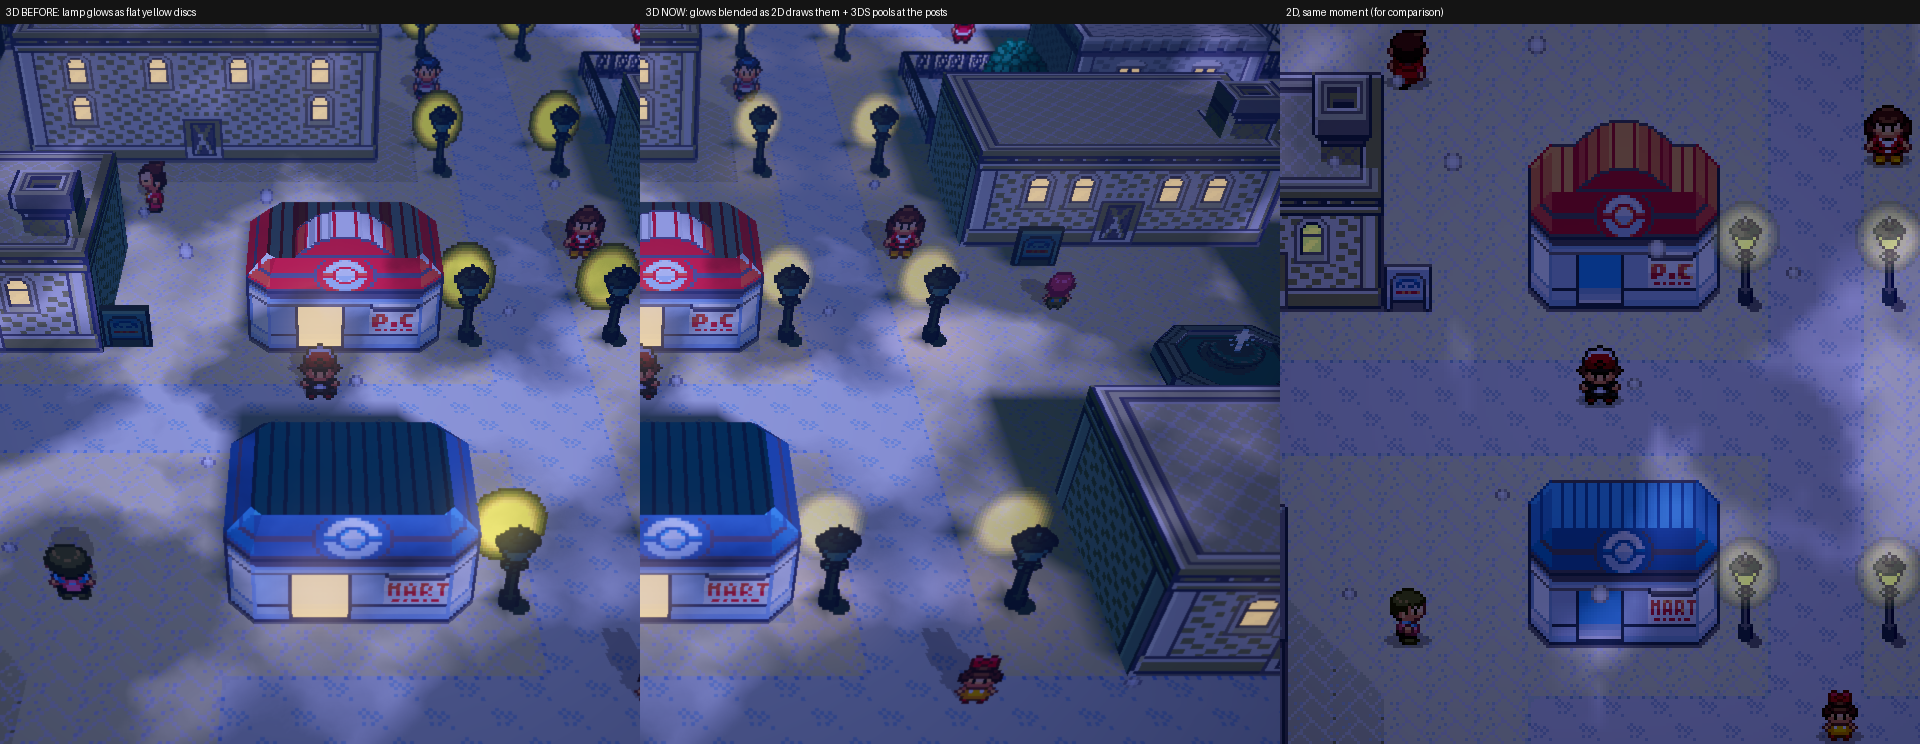
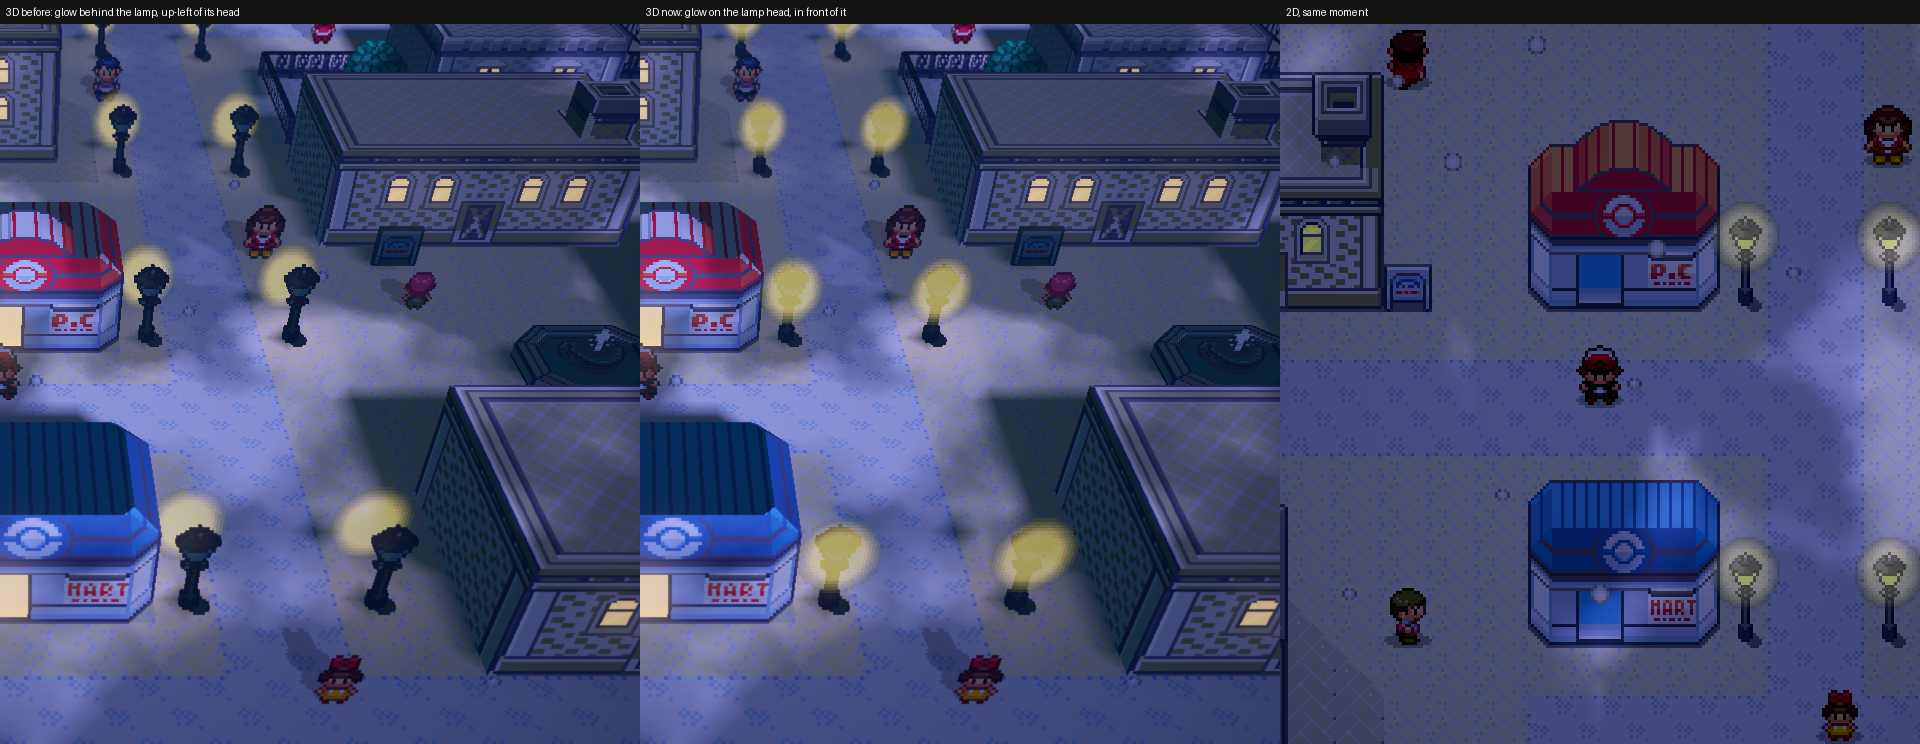
POL-26b lamps: glow sits on the lantern head, in front of it (was behind the lamp)
Treston, 2026-11-15: "The lights look like it's behind the lamp in 3d".

Placed from the screen, the glow card stood about half a tile north of the
lamp and up-left of its head; the 3D lantern model hid it.
- voxel_sign.c VoxelSign_LanternGlass: the middle of the lantern's lit glass
  exactly where VoxelSign_EmitNight (Emerald 3DS) puts it - head rows 6..10,
  columns trimmed by 2, the lantern's front face.
- voxel_entities.c: a lamp ball's glow is centred there, just in front of the
  glass. No 3DS lantern at that cell: screen placement moved one tile towards
  the camera along the line of sight (keeps its place on screen).
Not handled: eased rows / raised map bases (z stretch); Rustboro is flat.

Tested on WallysJourney.exe under Wine, Rustboro 10 PM, 3D: glow centre within
a few pixels of the lantern head, drawn over it. 2D unaffected (3D-only code).
Picture: docs/polish_reports/POL-26b_lamps.png (updated).

Claude-Session: https://claude.ai/code/session_019khs4XZ7wjpndpyxbzK4Je

diff --git a/src/platform/voxel3d/voxel_entities.c b/src/platform/voxel3d/voxel_entities.c
@@ -2038,27 +2038,62 @@ unsigned VoxelEntities_Emit(VoxelBuilder *builder, uint16_t *atlas, const VoxelC
         base = sprite->y + sprite->centerToCornerVecY + h;
         if (sprite->callback == UpdateLightSprite && sGlowBuilder != NULL)
         {
-            /* POL-26b: placed as a card on its own is (below), into the glow builder; a lamp ball's pool on
-             * the ground of its tile (sLightXPos / sLightYPos, map coordinates). */
+            /* POL-26b: placed as a card on its own is (below), into the glow builder. A lamp ball's pool goes on
+             * the ground of the lamp's post (sLightXPos / sLightYPos, map coordinates: the light object is on
+             * the lamp's head tile, the post one tile south; the 3DS centres its pool on the post). */
+            bool ball = sprite->data[5] == LIGHT_TYPE_BALL && VoxelWorld_InstanceCount() > 0;
+            float px = 0.0f, pz = 0.0f;
+
             reference = gPlayerAvatar.objectEventId < OBJECT_EVENTS_COUNT
                       ? &objects[gPlayerAvatar.objectEventId] : NULL;
             if (reference == NULL || !reference->drawn)
                 continue;
+            if (ball)
+            {
+                px = (float)(sprite->data[6] - MAP_OFFSET + VoxelWorld_Instance(0)->originX) + 0.5f;
+                pz = (float)(sprite->data[7] - MAP_OFFSET + VoxelWorld_Instance(0)->originY) + 1.5f;
+            }
             {
                 float cx = reference->worldX + 0.5f + (x - reference->screenX) / VOXEL_PIXELS_PER_TILE;
                 float cz = reference->worldZ + 0.5f + (base - reference->base) / VOXEL_PIXELS_PER_TILE;
+                float rise = -sprite->y2 * pixel;
 
                 if (fabsf(cx - camera->targetX) > VOXEL_CARD_RANGE || fabsf(cz - camera->targetZ) > VOXEL_CARD_RANGE)
                     continue;
-                EmitBillboard(sGlowBuilder, &sSlots[effect->slot], effect->slot, cx, cz, 0.0f, 0.0f,
-                              -sprite->y2 * pixel, reference->deck, rightX, rightZ, stretch,
-                              1.0f, SpriteScale(sprite));
+                float gx, gy, gz;
+                const VoxelMapInstance *lampInst = ball ? VoxelWorld_GetInstanceAt((int)floorf(px), (int)floorf(pz)) : NULL;
+
+                /* Treston, 2026-11-15: "The lights look like it's behind the lamp in 3d". Placed from the screen,
+                 * the glow's card stood about half a tile north of the lamp and up-left of its head, the lamp's
+                 * 3D model in front of it. The lamp is Emerald 3DS's lantern (sign data): the glow is centred
+                 * where the 3DS lights its glass (VoxelSign_LanternGlass) and stands just in front of it. */
+                if (ball && VoxelSign_LanternGlass(lampInst, (int)floorf(px), (int)floorf(pz), &gx, &gy, &gz))
+                {
+                    /* the card shows the slot's top VisibleRows rows, its bottom at the lift; the glow's middle
+                     * is the sprite's middle row, (rows - height / 2) pixels above that bottom */
+                    float above = (VisibleRows(&sSlots[effect->slot]) - sSlots[effect->slot].height * 0.5f)
+                                * pixel * SpriteScale(sprite);
+                    float front = gz + 0.05f;
+
+                    EmitBillboard(sGlowBuilder, &sSlots[effect->slot], effect->slot, gx, front, 0.0f, 0.0f,
+                                  gy - VoxelRelief_LiftAt(gx, front) - above, 0.0f, rightX, rightZ, stretch,
+                                  1.0f, SpriteScale(sprite));
+                }
+                else
+                {
+                    /* No 3DS lantern there: placed from the screen, moved a tile straight towards the camera
+                     * (along the line of sight a card keeps its place on the screen, a few % bigger). */
+                    float cy = VoxelRelief_LiftAt(cx, cz) + rise + sSlots[effect->slot].height * pixel * 0.5f;
+                    float dx = camera->x - cx, dy = camera->y - cy, dz = camera->z - cz;
+                    float len = sqrtf(dx * dx + dy * dy + dz * dz);
+                    float d = len > 2.0f ? 1.0f / len : 0.0f;
+
+                    EmitBillboard(sGlowBuilder, &sSlots[effect->slot], effect->slot, cx, cz, dx * d, dz * d,
+                                  rise + dy * d, reference->deck, rightX, rightZ, stretch, 1.0f, SpriteScale(sprite));
+                }
             }
-            if (sPoolBuilder != NULL && sprite->data[5] == LIGHT_TYPE_BALL && VoxelWorld_InstanceCount() > 0)
+            if (ball && sPoolBuilder != NULL)
             {
-                float px = (float)(sprite->data[6] - MAP_OFFSET + VoxelWorld_Instance(0)->originX) + 0.5f;
-                /* the light object is on the lamp's head tile; the 3DS centres the pool on the post (one south) */
-                float pz = (float)(sprite->data[7] - MAP_OFFSET + VoxelWorld_Instance(0)->originY) + 1.5f;
                 const VoxelMapInstance *inst = VoxelWorld_GetInstanceAt((int)floorf(px), (int)floorf(pz));
 
                 VoxelSign_LampPool(sPoolBuilder, inst, px, pz);

diff --git a/src/platform/voxel3d/voxel_sign.c b/src/platform/voxel3d/voxel_sign.c
@@ -201,6 +201,44 @@ static void LampGround(VoxelBuilder *builder, const VoxelMapInstance *inst,
         }
 }
 
+/*
+ * POL-26b (PC): the middle of the lit glass of the lantern standing at world cell (cellX, cellZ), where
+ * VoxelSign_EmitNight puts it (head rows 6..10, columns trimmed by 2, on the lantern's front face): x, height over
+ * the ground (lift added), z. False: no 3DS lantern there.
+ */
+bool VoxelSign_LanternGlass(const VoxelMapInstance *inst, int cellX, int cellZ, float *x, float *y, float *z)
+{
+    if (inst == NULL || inst->indoor || !LoadMasks())
+        return false;
+    for (unsigned index = 0; index < sCount; ++index)
+    {
+        const SignRecord *record = &sIndex[index];
+        int xpos = inst->originX + record->x, zpos = inst->originY + record->y;
+        if (record->layout != inst->layoutId || xpos != cellX || zpos != cellZ || !VoxelSign_IsLantern(record->head)
+            || VoxelRegions_RoleAt(inst->layoutId, record->x, record->y) != VOXEL_ROLE_SIGNPOST)
+            continue;
+        int last = 16, left = 16, right = -1;
+        for (unsigned row = 0; row < 16; ++row)
+            if (record->rows[row] != 0)
+                last = (int)row + 16;
+        for (unsigned row = 6; row < 11; ++row)
+            for (int col = 2; col < 14; ++col)
+                if ((record->head[row] & (1u << col)) != 0)
+                {
+                    left = col < left ? col : left;
+                    right = col > right ? col : right;
+                }
+        if (left > right)
+            return false;
+        float back = zpos - 1 + (last / 8) * 0.5f + 0.25f - VOXEL_SIGN_PINNED_DEPTH / 32.0f;
+        *x = xpos + (left + right + 1) / 32.0f;
+        *y = VoxelRelief_Base(inst) + VoxelRelief_CellLift(inst, xpos, zpos) + (last - 8) / 16.0f + 1.0f / 32.0f;
+        *z = back + VOXEL_SIGN_PINNED_DEPTH / 16.0f;
+        return true;
+    }
+    return false;
+}
+
 /* POL-26b (PC): the 3DS's pool of light around a lamp of our own maps (the game's light objects). */
 void VoxelSign_LampPool(VoxelBuilder *ground, const VoxelMapInstance *inst, float centerX, float centerZ)
 {

diff --git a/src/platform/voxel3d/voxel_sign.h b/src/platform/voxel3d/voxel_sign.h
@@ -73,6 +73,7 @@ void VoxelSign_Shutdown(void);
 bool VoxelSign_IsLantern(const uint16_t head[16]);
 /* POL-26b (PC): the pool of light of a lamp at (centerX, centerZ), world tiles; texture coordinates 0..1 over
  * the pool's disc (radius VOXEL_LAMP_POOL_RADIUS). */
+bool VoxelSign_LanternGlass(const VoxelMapInstance *inst, int cellX, int cellZ, float *x, float *y, float *z);
 void VoxelSign_LampPool(VoxelBuilder *ground, const VoxelMapInstance *inst, float centerX, float centerZ);
 void VoxelSign_EmitNight(VoxelBuilder *glass, VoxelBuilder *ground,
                        const VoxelMapInstance *inst, int x0, int y0, int x1, int y1);

diff --git a/docs/POLISH_TASKS.md b/docs/POLISH_TASKS.md
@@ -232,6 +232,12 @@ Add under each item: what was found, what was changed, files, how to test, what 
         Picture: `docs/polish_reports/POL-26b_lamps.png`. Tested Rustboro 10 PM, 3D (Gamma on and off) and 2D
         (unchanged; only randomly walking people differ). The pools are faint on the night-blue ground (the 3DS
         formula adds mostly red) - ask Treston if they should be stronger.
+      - Treston, 2026-11-15: "The lights look like it's behind the lamp in 3d". Placed from the screen, the glow's
+        card stood ~half a tile north of the lamp and up-left of its head, so the 3D lantern hid it. Now centred
+        where Emerald 3DS lights the lantern's glass (voxel_sign.c VoxelSign_LanternGlass: head rows 6..10, the
+        lantern's front face, as VoxelSign_EmitNight) and stood just in front of it. Lamps with no 3DS lantern data
+        keep the screen placement, moved a tile towards the camera along the line of sight. Not handled: maps
+        with eased rows / raised bases (z stretch) - Rustboro is flat. Picture updated: POL-26b_lamps.png.
 - [x] **POL-27. Route 113 ash.** "Route 113 ash on the floor after walking through it shows blue boxes and does
       not show crash or anything." (Brennan, confirmed: he meant the ash puff when you step in it.)
       - Done 2026-11-14 (Claude 019khs4X). Picture for Brennan: `docs/polish_reports/POL-27_ash_trail_fixed.png`.
